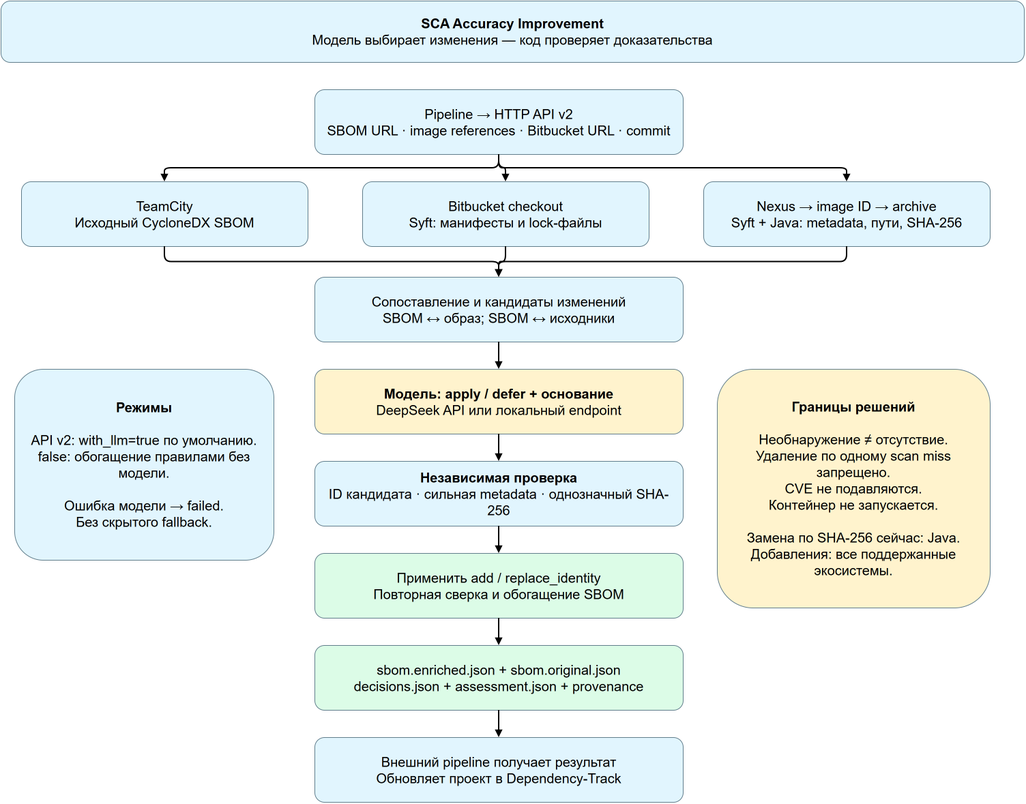
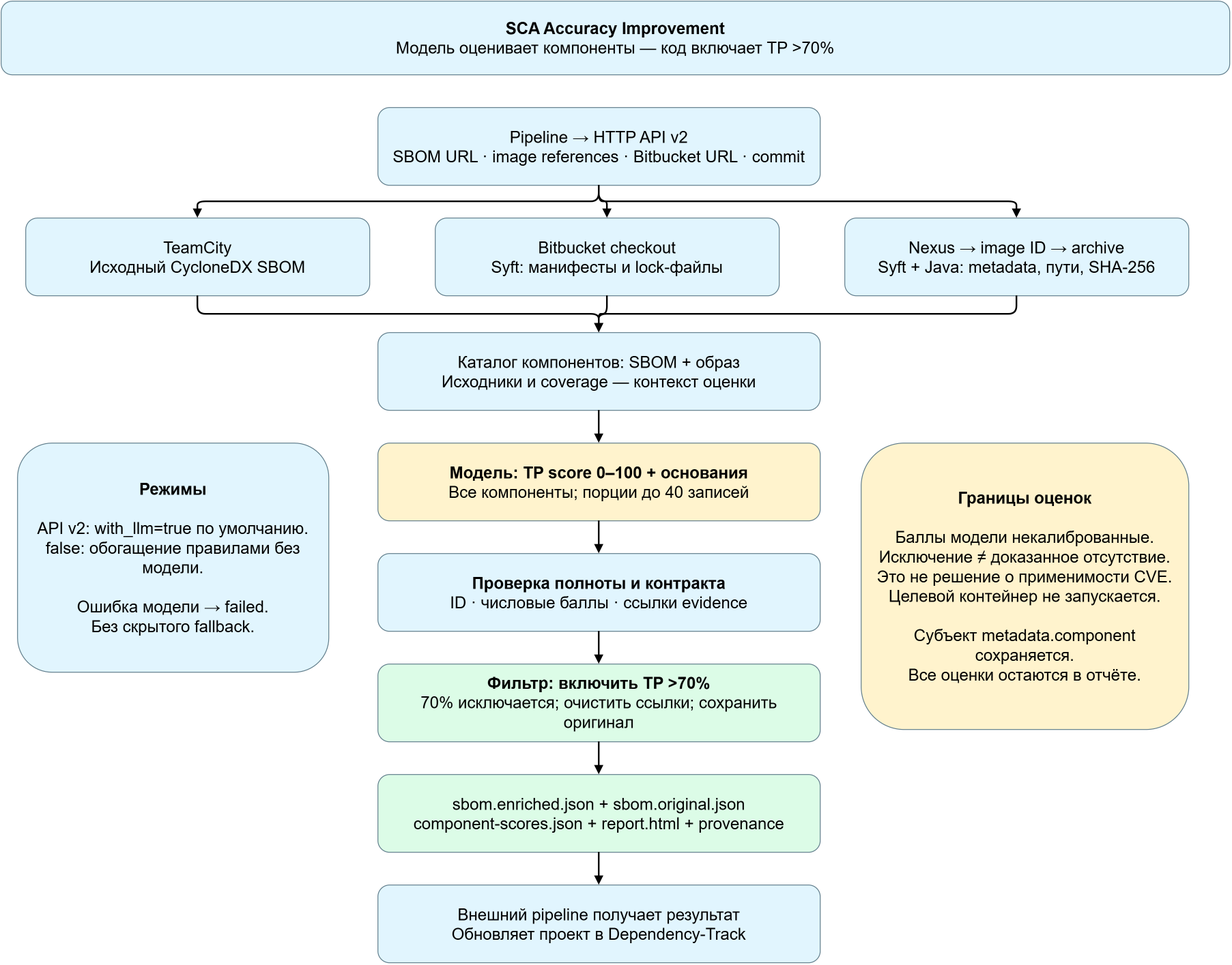
fix: preserve honest completeness and document score filtering

diff --git a/docs/diagrams/system-workflow.html b/docs/diagrams/system-workflow.html
@@ -15,7 +15,7 @@
 <p id="notice"></p>
 <div class="layout"><section class="canvas" aria-label="Интерактивная схема потока данных"><svg id="wires" aria-hidden="true"><defs><marker id="arrow" markerWidth="8" markerHeight="8" refX="7" refY="4" orient="auto"><path d="M0,0 L8,4 L0,8 Z" fill="#92a7b6"/></marker></defs><g id="paths"></g></svg><div id="graph" class="graph"></div><div class="legend"><span>Основной поток данных</span><span>Дополнительные пояснения</span></div></section><aside id="detail" aria-live="polite" aria-label="Пояснение выбранного узла"></aside></div>
 <noscript><p class="nojs">Для раскрытия узлов включите JavaScript. Статическая схема доступна в <a href="system-workflow.png">PNG</a>.</p></noscript>
-<footer class="foot">Автономный файл: без CDN, сетевых запросов и отправки данных. Это объяснение архитектуры, а не интерфейс запуска анализа.<br>Основа текущего режима: <code>remote.py → pipeline.py → llm.py → decisions.py → sbom.py</code>. Проверено по коду на 18.09.2026.<br><a href="system-workflow.drawio">Редактируемая схема draw.io</a> · <a href="system-workflow.png">Статическая схема</a> · <a href="../../README.md">Описание сервиса</a></footer>
+<footer class="foot">Автономный файл: без CDN, сетевых запросов и отправки данных. Это объяснение архитектуры, а не интерфейс запуска анализа.<br>Основа текущего режима: <code>remote.py → pipeline.py → llm.py → scoring.py → sbom.py</code>. Проверено по коду на 19.09.2026.<br><a href="system-workflow.drawio">Редактируемая схема draw.io</a> · <a href="system-workflow.png">Статическая схема</a> · <a href="../../README.md">Описание сервиса</a></footer>
 </main>
 <script>
 'use strict';
@@ -29,12 +29,12 @@ const data={
  imgscan:{title:'Syft: образ',tag:'Наблюдения',sub:'Пакеты и расположение',kind:'scan',summary:'Каталог компонентов итоговой файловой системы образа.',inputs:['Архив Docker image.'],actions:['Прочитать итоговое содержимое слоёв и доступные package metadata.','Дополнительно извлечь статические JVM-ссылки нашим Java-анализатором.'],outputs:['image.syft.json, наблюдения о версиях, путях и JVM-ссылках.'],limit:'Syft не ищет CVE и не определяет runtime execution. Shading, bundling и stripped binaries могут скрыть пакеты.',code:'catalog.py · observations_from_catalog(); image.py'},
  reconcile:{title:'Сопоставление и доказательства',tag:'Правила общего ядра',sub:'Два сравнения: SBOM ↔ образ и SBOM ↔ исходники',kind:'core',summary:'В текущем коде статусы определяются правилами, до обращения к модели.',inputs:['Нормализованный SBOM, каталог образа, каталог исходников.'],actions:['Сопоставить пакет и версию; выявить новые пакеты и конфликты.','Сохранить source evidence отдельно; не считать его доказательством поставки.'],outputs:['confirmed_present, version_conflict, observed_not_declared, unexpected_absent, expected_absent или identity_uncertain.'],limit:'unexpected_absent означает «не обнаружен», а не доказанное отсутствие. Maven scope учитывается только при отдельной передаче дерева локальному CLI.',code:'pipeline.py · reconcile(); sbom.py'},
  builder:{"title": "Обогатить по правилам", "tag": "with_llm=false", "sub": "Режим без модели", "kind": "output", "summary": "Прежнее обогащение состава по фиксированным правилам.", "inputs": ["Исходный SBOM и наблюдения."], "actions": ["Добавить обнаруженные пакеты; аннотировать расхождения."], "outputs": ["sbom.enriched.json"], "limit": "Удаления и замены версий не выполняются.", "code": "sbom.py · enrich_sbom()"},
- result:{title:'Результаты задания',tag:'Отдельно для каждой пары',sub:'Обновлённый SBOM + отчёты + provenance',kind:'output',summary:'Результаты публикуются после успеха всех пар задания.',inputs:['Enriched SBOM, результаты сравнения и пояснения модели, если включена.'],actions:['Записать файлы и provenance: commit, SBOM URL и SHA-256, image ID.','Выдать ссылки на скачивание через HTTP API.'],outputs:['sbom.enriched.json, assessment.json, source-assessment.json, coverage.json, provenance.json, report.html.'],limit:'При ошибке любой пары задание failed, скачивание частичных результатов через API заблокировано. V2 не создаёт VEX и не вызывает Dependency-Track.',code:'remote.py · run_remote(); report.py · write_outputs()'},
+ result:{title:'Результаты задания',tag:'Отдельно для каждой пары',sub:'Обновлённый SBOM + отчёты + provenance',kind:'output',summary:'Результаты публикуются после успеха всех пар задания.',inputs:['Enriched SBOM, результаты сравнения и пояснения модели, если включена.'],actions:['Записать файлы и provenance: commit, SBOM URL и SHA-256, image ID.','Выдать ссылки на скачивание через HTTP API.'],outputs:['sbom.enriched.json, component-scores.json, assessment.json, source-assessment.json, provenance.json, report.html.'],limit:'При ошибке любой пары задание failed, скачивание частичных результатов через API заблокировано. V2 не создаёт VEX и не вызывает Dependency-Track.',code:'remote.py · run_remote(); report.py · write_outputs()'},
  consumer:{title:'Внешний pipeline',tag:'Получение файлов',sub:'Дождаться succeeded и скачать SBOM',kind:'source',summary:'Внешняя система управляет дальнейшим использованием результата.',inputs:['UUID задания и список result.targets.'],actions:['Опросить статус и скачать SBOM для нужного target_id.','Выбрать соответствующий проект/version в Dependency-Track.'],outputs:['Обновлённый SBOM для внешней загрузки.'],limit:'Разные образы не объединяются автоматически в один BOM.',code:'GET /v2/analyses/{id}/targets/{target_id}/artifacts/sbom.enriched.json'},
  dtrack:{title:'Dependency-Track',tag:'За пределами сервиса',sub:'Обновление проекта внешней системой',kind:'output',summary:'Последующая обработка обновлённого SBOM в целевом проекте.',inputs:['Файл enriched SBOM, загруженный внешним pipeline.'],actions:['Обновить инвентаризацию и выполнить анализ уязвимостей в Dependency-Track.'],outputs:['Обновлённые данные проекта и findings.'],limit:'Наш сервис не выбирает UUID проекта, не пересчитывает критичность и не подавляет findings.',code:'Отдельная внешняя интеграция'},
- modeldecision:{"title": "Модель: выбрать изменения", "tag": "with_llm=true · API v2 default", "sub": "DeepSeek / локальный endpoint", "kind": "model", "summary": "Модель принимает аналитическое решение для каждого доказуемого кандидата.", "inputs": ["Расхождения, кандидаты с ID, source evidence, coverage."], "actions": ["Выбрать apply или defer; объяснить основание.", "Вернуть структурированный JSON."], "outputs": ["decisions: candidate_id, action, reason."], "limit": "Ответ не является произвольным патчем. Ошибка модели завершает задание.", "code": "llm.py · analyze()"},
- gate:{"title": "Проверить доказательства", "tag": "Обязательный валидатор", "sub": "Кандидаты пересчитываются кодом", "kind": "core", "summary": "Валидатор ограничивает изменения фактами сканирования.", "inputs": ["План модели, исходный SBOM, наблюдения."], "actions": ["Проверить ID и допустимую операцию.", "Для замены проверить однозначный SHA-256; для добавления — metadata."], "outputs": ["Принятые, отклонённые, отложенные, нерассмотренные решения."], "limit": "Необнаружение не разрешает удаление. CVE не подавляются.", "code": "decisions.py · candidates(), apply_plan()"},
- apply:{"title": "Применить и сверить SBOM", "tag": "Сборщик документа", "sub": "Изменения → повторная сверка", "kind": "output", "summary": "Модель влияет на состав итогового документа через проверенный план.", "inputs": ["Принятые add / replace_identity."], "actions": ["Добавить пакет или исправить идентичность с сохранением bom-ref.", "Повторить reconcile; добавить аннотации и provenance."], "outputs": ["sbom.enriched.json, sbom.original.json, decisions.json."], "limit": "Хеши сейчас связаны с файлами Java. Без доказательств старые версии сохраняются.", "code": "pipeline.py · apply_plan() → reconcile() → enrich_sbom()"},
+ modeldecision:{"title": "Модель: оценить компоненты", "tag": "with_llm=true · API v2 default", "sub": "TP score 0–100 + основания", "kind": "model", "summary": "Модель оценивает корректность идентичности и присутствие версии в поставке.", "inputs": ["Каталог SBOM + образ, source evidence, coverage; порции до 40 записей."], "actions": ["Оценить каждый компонент, включая ранее не заявленные.", "Указать reason, evidence_ids и missing_evidence."], "outputs": ["assessments: component_id, tp_score, reason, evidence_ids, missing_evidence."], "limit": "Баллы некалиброванные: это оценка модели, не доказанная вероятность и не оценка CVE.", "code": "llm.py · assess_components()"},
+ gate:{"title": "Проверить оценки", "tag": "Обязательный валидатор", "sub": "Полнота · формат · ссылки evidence", "kind": "core", "summary": "Код проверяет контракт ответа; истинность балла проверяется отдельно на размеченных данных.", "inputs": ["Оценки модели и неизменяемый каталог компонентов."], "actions": ["Ровно одна оценка каждого ID; число 0–100.", "Проверить поля и принадлежность evidence этому компоненту."], "outputs": ["Полный проверенный набор оценок или failed."], "limit": "Пропуски, дубликаты, выдуманные ID и неправильные поля блокируют результат.", "code": "scoring.py · validate_scores()"},
+ apply:{"title": "Собрать SBOM: TP >70%", "tag": "Строгий порог", "sub": "70% исключается; >70% включается", "kind": "output", "summary": "Код фильтрует состав по баллам и сохраняет все оценки в отчёте.", "inputs": ["Все прошедшие проверку оценки."], "actions": ["Оставить или добавить компоненты с TP >70%.", "Очистить ссылки на исключённые записи; сохранить оригинал и журнал."], "outputs": ["sbom.enriched.json, sbom.original.json, component-scores.json, report.html."], "limit": "metadata.component сохраняет субъект документа. Исключение записи не доказывает отсутствие или неприменимость CVE.", "code": "scoring.py · filter_sbom() → reconcile() → enrich_sbom()"},
 };
 const graphs={current:{rows:[['request'],['sbom','source','image'],['identity','srcscan','imgscan'],['reconcile'],['builder'],['result'],['consumer','dtrack']],edges:[['request','sbom'],['request','source'],['request','image'],['sbom','identity'],['source','srcscan'],['image','imgscan'],['identity','reconcile'],['srcscan','reconcile'],['imgscan','reconcile'],['reconcile','builder'],['builder','result'],['result','consumer'],['consumer','dtrack']]},proposed:{rows:[['request'],['sbom','source','image'],['identity','srcscan','imgscan'],['reconcile'],['modeldecision'],['gate'],['apply'],['result'],['consumer','dtrack']],edges:[['request','sbom'],['request','source'],['request','image'],['sbom','identity'],['source','srcscan'],['image','imgscan'],['identity','reconcile'],['srcscan','reconcile'],['imgscan','reconcile'],['reconcile','modeldecision'],['modeldecision','gate'],['gate','apply'],['apply','result'],['result','consumer'],['consumer','dtrack']]}};
 let mode='current', selected='builder';
@@ -43,7 +43,7 @@ function nodeData(id){return {...data[id]}}
 function section(label,items){const s=document.createElement('section'),h=document.createElement('h3'),ul=document.createElement('ul');h.textContent=label;items.forEach(value=>{const li=document.createElement('li');li.textContent=value;ul.append(li)});s.append(h,ul);return s}
 function select(id){selected=id;const item=nodeData(id);document.querySelectorAll('.node').forEach(button=>{button.setAttribute('aria-pressed',String(button.dataset.id===id));button.classList.toggle('linked',graphs[mode].edges.some(([a,b])=>(a===id&&b===button.dataset.id)||(b===id&&a===button.dataset.id)))});detail.replaceChildren();const top=document.createElement('div');top.className='detail-top';const tag=document.createElement('small'),title=document.createElement('h2'),summary=document.createElement('p');tag.textContent=item.tag;title.textContent=item.title;summary.textContent=item.summary;top.append(tag,title,summary);const body=document.createElement('div');body.className='details';body.append(section('Вход',item.inputs),section('Что делает',item.actions),section('Выход',item.outputs));const limits=document.createElement('div');limits.className='limits';limits.textContent=item.limit;const code=document.createElement('div');code.className='code';code.textContent=item.code;body.append(limits,code);detail.append(top,body);draw()}
 function draw(){const svg=document.getElementById('wires'),paths=document.getElementById('paths');paths.replaceChildren();const base=canvas.getBoundingClientRect();svg.setAttribute('viewBox',`0 0 ${base.width} ${base.height}`);graphs[mode].edges.forEach(([a,b,optional])=>{const s=document.getElementById('n-'+a).getBoundingClientRect(),t=document.getElementById('n-'+b).getBoundingClientRect();let x1=s.left+s.width/2-base.left,y1=s.bottom-base.top,x2=t.left+t.width/2-base.left,y2=t.top-base.top,d;if(Math.abs(s.top-t.top)<5){x1=s.right-base.left;y1=s.top+s.height/2-base.top;x2=t.left-base.left;y2=t.top+t.height/2-base.top;d=`M${x1},${y1} L${x2},${y2}`}else{const mid=(y1+y2)/2;d=`M${x1},${y1} C${x1},${mid} ${x2},${mid} ${x2},${y2}`}const path=document.createElementNS('http://www.w3.org/2000/svg','path');path.setAttribute('d',d);path.setAttribute('marker-end','url(#arrow)');path.setAttribute('class','wire'+(optional?' optional':'')+((a===selected||b===selected)?' active':''));paths.append(path)})}
-function render(next){mode=next;document.querySelectorAll('.mode').forEach(button=>button.setAttribute('aria-pressed',String(button.id===mode)));const notice=document.getElementById('notice');notice.className=mode==='proposed'?'proposed':'';notice.textContent=mode==='current'?'with_llm=false: обогащение правилами. Замены версий и удаления не выполняются.':'Реализовано, API v2 по умолчанию: модель выбирает изменения, валидатор проверяет evidence, сборщик создаёт SBOM. Улучшение точности живой модели ещё требует измерения.';graph.replaceChildren();graphs[mode].rows.forEach(ids=>{const row=document.createElement('div');row.className='row';ids.forEach(id=>{const item=nodeData(id),button=document.createElement('button');button.type='button';button.id='n-'+id;button.dataset.id=id;button.dataset.kind=item.kind;button.className='node'+(ids.length===1?' wide':'');button.setAttribute('aria-controls','detail');button.setAttribute('aria-pressed','false');for(const [tag,cls,text] of [['span','tag',item.tag],['strong','',item.title],['span','sub',item.sub]]){const e=document.createElement(tag);e.className=cls;e.textContent=text;button.append(e)}button.addEventListener('click',()=>select(id));row.append(button)});graph.append(row)});select(mode==='current'?'builder':'modeldecision');requestAnimationFrame(draw)}
+function render(next){mode=next;document.querySelectorAll('.mode').forEach(button=>button.setAttribute('aria-pressed',String(button.id===mode)));const notice=document.getElementById('notice');notice.className=mode==='proposed'?'proposed':'';notice.textContent=mode==='current'?'with_llm=false: обогащение правилами. Замены версий и удаления не выполняются.':'Реализовано, API v2 по умолчанию: модель оценивает все компоненты, валидатор проверяет ответ, код включает только TP >70%. Все оценки остаются в отчёте. Улучшение точности живой модели ещё требует измерения.';graph.replaceChildren();graphs[mode].rows.forEach(ids=>{const row=document.createElement('div');row.className='row';ids.forEach(id=>{const item=nodeData(id),button=document.createElement('button');button.type='button';button.id='n-'+id;button.dataset.id=id;button.dataset.kind=item.kind;button.className='node'+(ids.length===1?' wide':'');button.setAttribute('aria-controls','detail');button.setAttribute('aria-pressed','false');for(const [tag,cls,text] of [['span','tag',item.tag],['strong','',item.title],['span','sub',item.sub]]){const e=document.createElement(tag);e.className=cls;e.textContent=text;button.append(e)}button.addEventListener('click',()=>select(id));row.append(button)});graph.append(row)});select(mode==='current'?'builder':'modeldecision');requestAnimationFrame(draw)}
 document.getElementById('current').addEventListener('click',()=>render('current'));document.getElementById('proposed').addEventListener('click',()=>render('proposed'));new ResizeObserver(()=>requestAnimationFrame(draw)).observe(canvas);render('proposed');
 </script>
 </body>

diff --git a/src/sca_accuracy/scoring.py b/src/sca_accuracy/scoring.py
@@ -322,7 +322,10 @@ def filter_sbom(sbom, observations, assessments, source_observations=()):
             component["bom-ref"] = ref
             component["evidence"] = {
                 "occurrences": [
-                    {"location": e["location"]} for e in entry["evidence"] if e["origin"] == "image"
+                    {"location": location}
+                    for location in sorted(
+                        {e["location"] for e in entry["evidence"] if e["origin"] == "image"}
+                    )
                 ]
             }
             annotate(component, entry)
@@ -330,6 +333,9 @@ def filter_sbom(sbom, observations, assessments, source_observations=()):
             added_count += 1
     removed_refs = original_refs - _refs(result)
     audit["references_pruned"] = _clean_references(result, removed_refs)
+    if removed_count or added_count:
+        for composition in result.get("compositions", []):
+            composition["aggregate"] = "unknown"
     _refs(result)
     audit["removed_bom_refs"] = sorted(removed_refs)
     audit["changes_applied"] = removed_count + added_count

diff --git a/tests/test_scoring.py b/tests/test_scoring.py
@@ -55,6 +55,15 @@ def test_invalid_scores_fail_without_publishing(score):
         filter_sbom(bom, [], scores(bom, values={"a": score}))
 
 
+def test_filtered_inventory_no_longer_claims_original_completeness():
+    bom = {
+        "components": [component("a")],
+        "compositions": [{"aggregate": "complete"}],
+    }
+    result, _ = filter_sbom(bom, [], scores(bom, values={"a": 20}))
+    assert result["compositions"][0]["aggregate"] == "unknown"
+
+
 @pytest.mark.parametrize("invalid", ["missing", "duplicate", "invented", "extra", "evidence"])
 def test_incomplete_or_invented_assessments_are_not_silently_filtered(invalid):
     bom = {"components": [component("a"), component("b")]}
